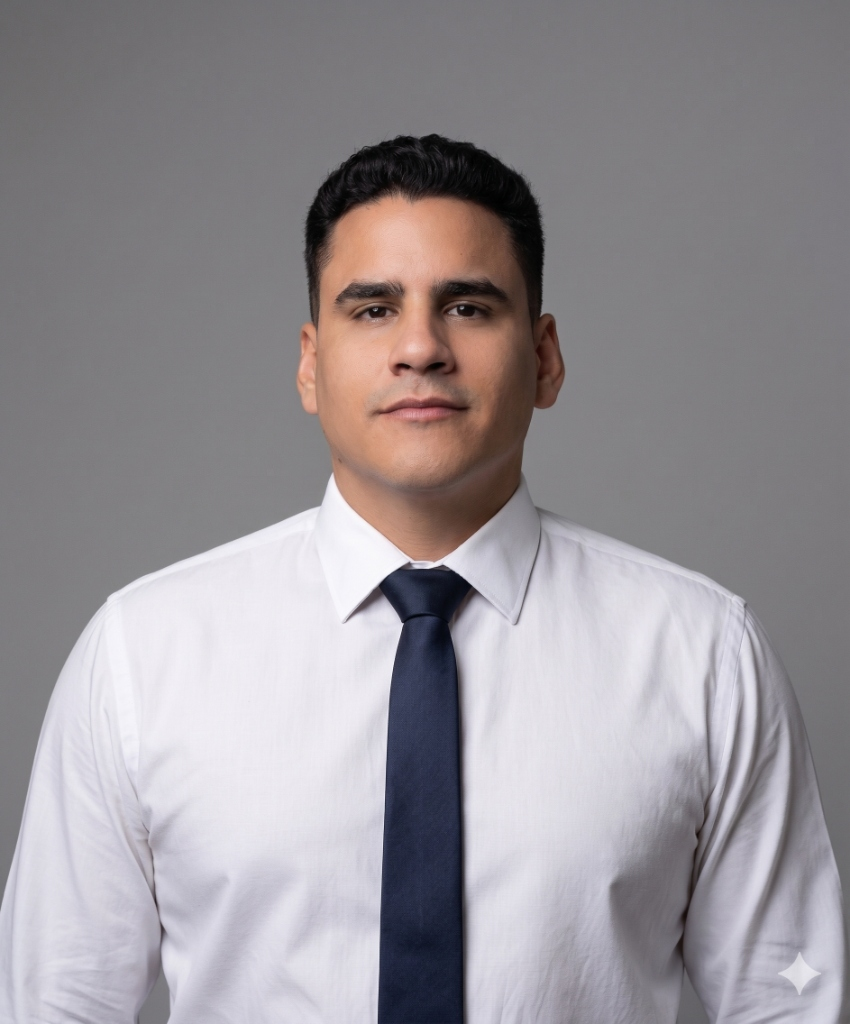
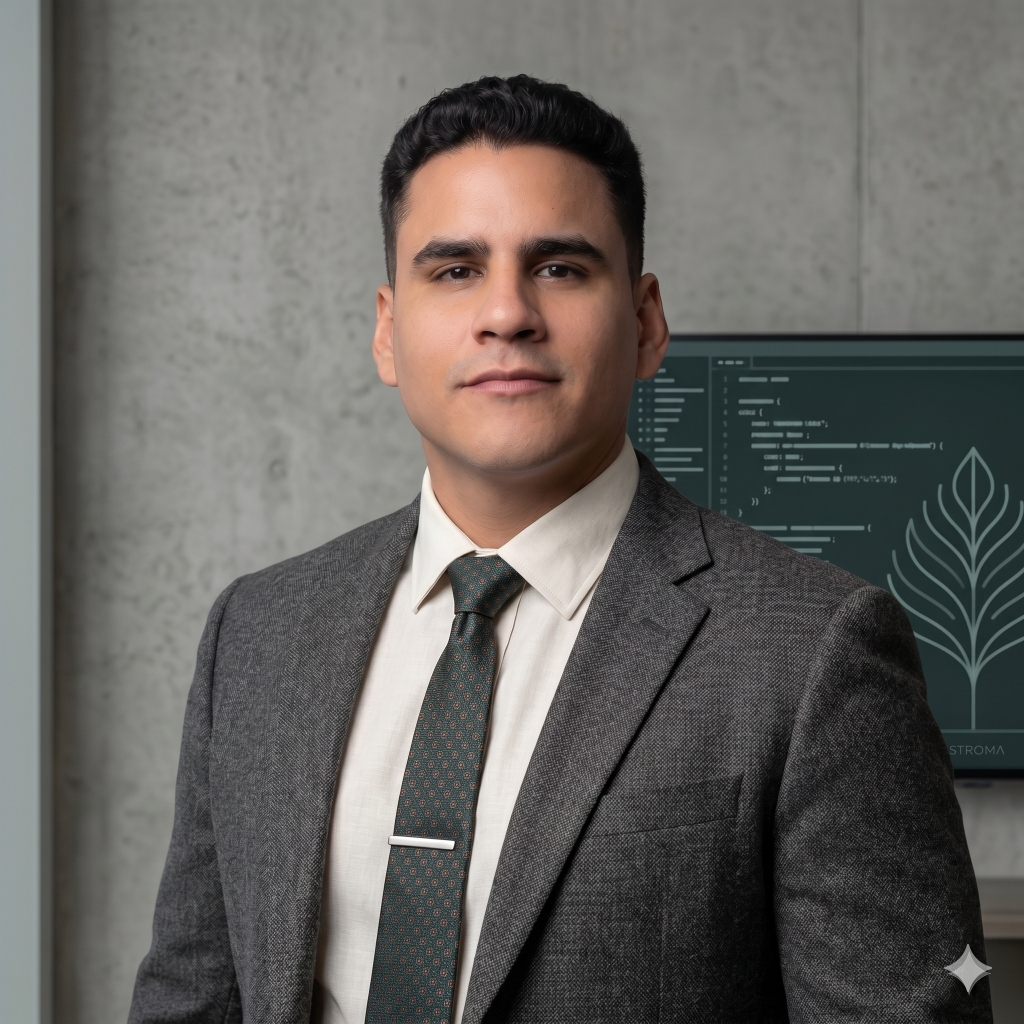
Add STROMA entrepreneurship experience and update profile picture

diff --git a/index.html b/index.html
@@ -105,7 +105,7 @@
             </div>
             <div class="section-body">
                 <p class="profile-text">
-                    Bachiller en <strong>Ingeniería y Gestión Ambiental</strong> por la Universidad Peruana de Ciencias Aplicadas (UPC), con un perfil híbrido que integra la <strong>gestión ambiental y SSOMA</strong> con la <strong>automatización de procesos y analítica de datos</strong>. Cuento con experiencia en el acompañamiento e implementación de Sistemas Integrados de Gestión (ISO 9001, ISO 14001, ISO 45001) y en el diseño de tableros de control en Power BI para el monitoreo en tiempo real de KPIs de sostenibilidad y seguridad en el trabajo (SST) bajo la Ley N° 29783.
+                    Bachiller en <strong>Ingeniería y Gestión Ambiental</strong> por la Universidad Peruana de Ciencias Aplicadas (UPC) y <strong>Cofundador de STROMA</strong>, con un perfil híbrido que integra la <strong>gestión ambiental y SSOMA</strong> con la <strong>automatización de procesos y analítica de datos</strong>. Cuento con experiencia en el acompañamiento e implementación de Sistemas Integrados de Gestión (ISO 9001, ISO 14001, ISO 45001) y en el diseño de tableros de control en Power BI para el monitoreo en tiempo real de KPIs de sostenibilidad y seguridad en el trabajo (SST) bajo la Ley N° 29783.
                 </p>
                 <p class="profile-text">
                     Destaco por integrar el cumplimiento normativo técnico-legal con la optimización operativa mediante programación en Python y SQL, y por mis habilidades en negociación técnico-comercial, estructuración de propuestas corporativas, liderazgo en inspecciones de seguridad en campo y relacionamiento ante entidades reguladoras (OEFA, OSINERGMIN) y municipales.
@@ -160,6 +160,28 @@
                 <h3 class="section-title">Experiencia Profesional</h3>
             </div>
             <div class="section-body timeline">
+
+                <article class="job-card">
+                    <div class="job-marker no-print"></div>
+                    <div class="job-body">
+                        <div class="job-top">
+                            <div>
+                                <h4 class="job-company">STROMA &middot; Soluciones Tecnológicas y Consultoría SSOMA</h4>
+                                <h5 class="job-role">Cofundador y Consultor de Soluciones Digitales</h5>
+                            </div>
+                            <span class="job-date"><i class="fa-regular fa-calendar no-print"></i> Ene. 2026 &ndash; Presente</span>
+                        </div>
+                        <ul class="job-achievements">
+                            <li><span class="ach-label">Emprendimiento y Liderazgo:</span> Fundé y lidero el desarrollo técnico-comercial de **STROMA**, un emprendimiento especializado en digitalizar el cumplimiento ambiental y la seguridad y salud en el trabajo (SST) mediante soluciones tecnológicas integradas.</li>
+                            <li><span class="ach-label">Desarrollo de Soluciones:</span> Diseñé e implementé una **herramienta automatizada de auditoría y diagnóstico de cumplimiento regulatorio** (Checklist SSOMA) que analiza de forma interactiva 23 requisitos críticos y genera planes de acción inmediatos para mitigar riesgos ante OEFA, OSINERGMIN y municipalidades.</li>
+                            <li><span class="ach-label">Automatización y BI:</span> Desarrollé tableros e interfaces de control en tiempo real para supervisar indicadores clave de conformidad legal, vigencia de SCTR, capacitación del personal y gestión de residuos sólidos.</li>
+                            <li><span class="ach-label">Consultoría Técnica:</span> Brindo asesoramiento especializado en la elaboración, control de documentación obligatoria y homologación de proveedores bajo la Ley N° 29783.</li>
+                        </ul>
+                        <div class="job-tags no-print">
+                            <span>Emprendimiento</span><span>Consultoría SSOMA</span><span>Ley 29783</span><span>Python</span><span>Power BI</span><span>Auditoría Ambiental</span><span>Gestión de Proyectos</span>
+                        </div>
+                    </div>
+                </article>
 
                 <article class="job-card">
                     <div class="job-marker no-print"></div>

diff --git a/script.js b/script.js
@@ -25,6 +25,7 @@
 
     /* ── TYPED EFFECT ──────────────────────── */
     const phrases = [
+        "Cofundador de STROMA",
         "Analista de Datos",
         "Especialista SSOMA",
         "Automatización Python",